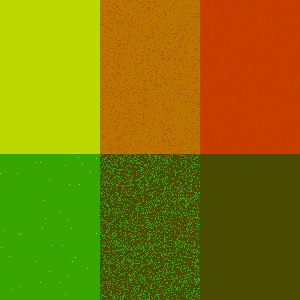
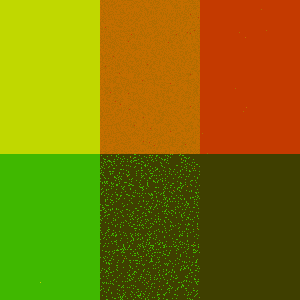
Dave ok (Well I think so) but PCM doesnt

diff --git a/src/Dave_Visa_.java b/src/Dave_Visa_.java
@@ -11,7 +11,7 @@ import ij.gui.Plot;
 import ij.plugin.PlugIn;
 import ij.process.ImageProcessor;
 
-public class PCM_Visa_ implements PlugIn {
+public class Dave_Visa_ implements PlugIn {
 
 	class Vec {
 		int[] data = new int[3]; // *pointeur sur les composantes*/
@@ -35,7 +35,7 @@ public class PCM_Visa_ implements PlugIn {
 		ImagePlus imp;
 		ImagePlus impseg;
 		ImagePlus impJ;
-		IJ.showMessage("Algorithme PCM", "If ready, Press OK");
+		IJ.showMessage("Algorithme FCM", "If ready, Press OK");
 		ImagePlus cw;
 
 		imp = WindowManager.getCurrentImage();
@@ -44,12 +44,12 @@ public class PCM_Visa_ implements PlugIn {
 		int width = ip.getWidth();
 		int height = ip.getHeight();
 
-		impseg = NewImage.createImage("Image segment�e par PCM", width, height, 1, 24, 0);
+		impseg = NewImage.createImage("Image segment�e par FCM", width, height, 1, 24, 0);
 		ipseg = impseg.getProcessor();
 		impseg.show();
 
 		int nbclasses, nbpixels, iter;
-		double stab, seuil, valeur_seuil;
+		double stab, seuil, valeur_seuil, delta2;
 		int i, j, k, l, imax, jmax, kmax;
 
 		String demande = JOptionPane.showInputDialog("Nombre de classes : ");
@@ -65,18 +65,22 @@ public class PCM_Visa_ implements PlugIn {
 		demande = JOptionPane.showInputDialog("Valeur du seuil de stabilit� : ");
 		valeur_seuil = Double.parseDouble(demande);
 
+		demande = JOptionPane.showInputDialog("Valeur du ratio d'aberrations : ");
+		delta2 = Math.pow(Double.parseDouble(demande), 2);
+		
 		demande = JOptionPane.showInputDialog("Randomisation am�lior�e ? ");
 		int valeur = Integer.parseInt(demande);
-
+		
 		/*
 		//mes valeurs par defaut, pour debug
 		nbclasses = 6;
 		nbpixels = width * height;
 		double m = 2d;
 		int itermax = 100;
-		valeur_seuil = 0;
+		valeur_seuil = 0.000001;
 		int valeur = 1;
 		*/
+		
 		
 		double c[][] = new double[nbclasses][3];
 		double cprev[][] = new double[nbclasses][3];
@@ -86,6 +90,7 @@ public class PCM_Visa_ implements PlugIn {
 		double Dprev[][] = new double[nbclasses][nbpixels];
 		double Umat[][] = new double[nbclasses][nbpixels];
 		double Uprev[][] = new double[nbclasses][nbpixels];
+		double Ucluster[] = new double[nbpixels];
 		double red[] = new double[nbpixels];
 		double green[] = new double[nbpixels];
 		double blue[] = new double[nbpixels];
@@ -108,7 +113,7 @@ public class PCM_Visa_ implements PlugIn {
 			}
 		}
 		////////////////////////////////
-		// PCM
+		// FCM
 		///////////////////////////////
 
 		imax = nbpixels; // nombre de pixels dans l'image
@@ -156,14 +161,20 @@ public class PCM_Visa_ implements PlugIn {
 		// A COMPLETER
 		for (i = 0; i < nbclasses; i++) {
 			for (j = 0; j < nbpixels; j++) {
-				double uij = 0d;
-				uij = 1d / (1d + Math.pow(Dprev[i][j], 1d / (m - 1d)));
-				Uprev[i][j] = uij;
+				double uij = 0.;
+				for(k = 0; k < kmax; k++) {
+					if (Dprev[k][j] != 0) {
+						uij += Math.pow(Dprev[i][j] / Dprev[k][j], 2d / (m - 1d));
+					} else {
+						uij += 1d;
+					}
+				}
+				Uprev[i][j] = Math.pow(uij, -1d);
 			}
 		}
 		
 		////////////////////////////////////////////////////////////
-		// FIN INITIALISATION PCM
+		// FIN INITIALISATION FCM
 		///////////////////////////////////////////////////////////
 
 		/////////////////////////////////////////////////////////////
@@ -212,50 +223,42 @@ public class PCM_Visa_ implements PlugIn {
 			// Calculate difference between the previous partition and the new
 			// partition (performance index)
 			
-			//compute n_i
-			double[] n = new double[nbclasses];
-
-			for (i = 0; i < nbclasses; i++) {
-					double num = 0d;
-					double den = 0d;
-					for(j = 0; j < nbpixels; j++) {
-						num += Math.pow(Uprev[i][j], m) * Dprev[i][j];
-						den += Math.pow(Uprev[i][j], m);
-					}
-					if (den != 0)
-						n[i] = num / den;
-					else
-						n[i] = 1d;
-			}
-			
 			//degre d'appartenance
-			
 			for (i = 0; i < nbclasses; i++) {
 				for (j = 0; j < nbpixels; j++) {
-					double uij = 0d;
-					//pas sur
-					uij = 1d / (1d + Math.pow(Dmat[i][j] / n[i], 1d / (m - 1d)));
-					Umat[i][j] = uij;
-				}
-			}
-			
-			//compute performance index
-			{
-				figJ[iter] = 0;
-				double first_sum = 1;
-				double second_sum = 1;
-				for(i = 0; i < nbclasses; i++) {
-					first_sum = 0;
-					second_sum = 0;
-					for (j = 0; j < nbpixels; j++) {
-						 first_sum += Math.pow(Umat[i][j], m) * Dmat[i][j];
-						 second_sum += Math.pow(1 - Umat[i][j], m);
+					double uij = 0.;
+					for(k = 0; k < kmax; k++) {
+						if (Dmat[k][j] != 0) {
+							uij += Math.pow(Dmat[i][j] / Dmat[k][j], 2. / (m - 1.));
+						} else {
+							uij += 1d;
+						}
 					}
-					second_sum *= n[i];
+					Umat[i][j] = 1d / uij;
 				}
-				figJ[iter] = first_sum + second_sum;
 			}
 			
+			//compute Ucluster
+			for (j = 0; j < nbpixels; j++) {
+				for (i = 0; i < nbclasses; i++) {
+					Ucluster[j] += Umat[i][j];
+				}
+				Ucluster[j] = 1 - Ucluster[j];
+			}
+		
+			//compute J
+			{
+				double sum1 = 0;
+				double sum2 = 0;
+				for (j = 0; j < nbpixels; j++) {
+					for(i = 0; i < nbclasses; i++) {
+						 sum1 += Math.pow(Umat[i][j], m) * Dmat[i][j];
+					}
+					sum2 += delta2 * Math.pow(Ucluster[j], m);
+				}
+				figJ[iter] = sum1 + sum2;
+			}
+					
 			if(iter > 0)
 				stab = figJ[iter] - figJ[iter - 1];
 		
@@ -297,11 +300,11 @@ public class PCM_Visa_ implements PlugIn {
 			xplot[w] = (double) w;
 			yplot[w] = (double) figJ[w];
 		}
-		Plot plot = new Plot("Performance Index (PCM)", "iterations", "J(P) value", xplot, yplot);
+		Plot plot = new Plot("Performance Index (FCM)", "iterations", "J(P) value", xplot, yplot);
 		plot.setLineWidth(2);
 		plot.setColor(Color.blue);
 		plot.show();
-	} // Fin PCM
+	} // Fin FCM
 
 	int indice;
 	double min, max;
